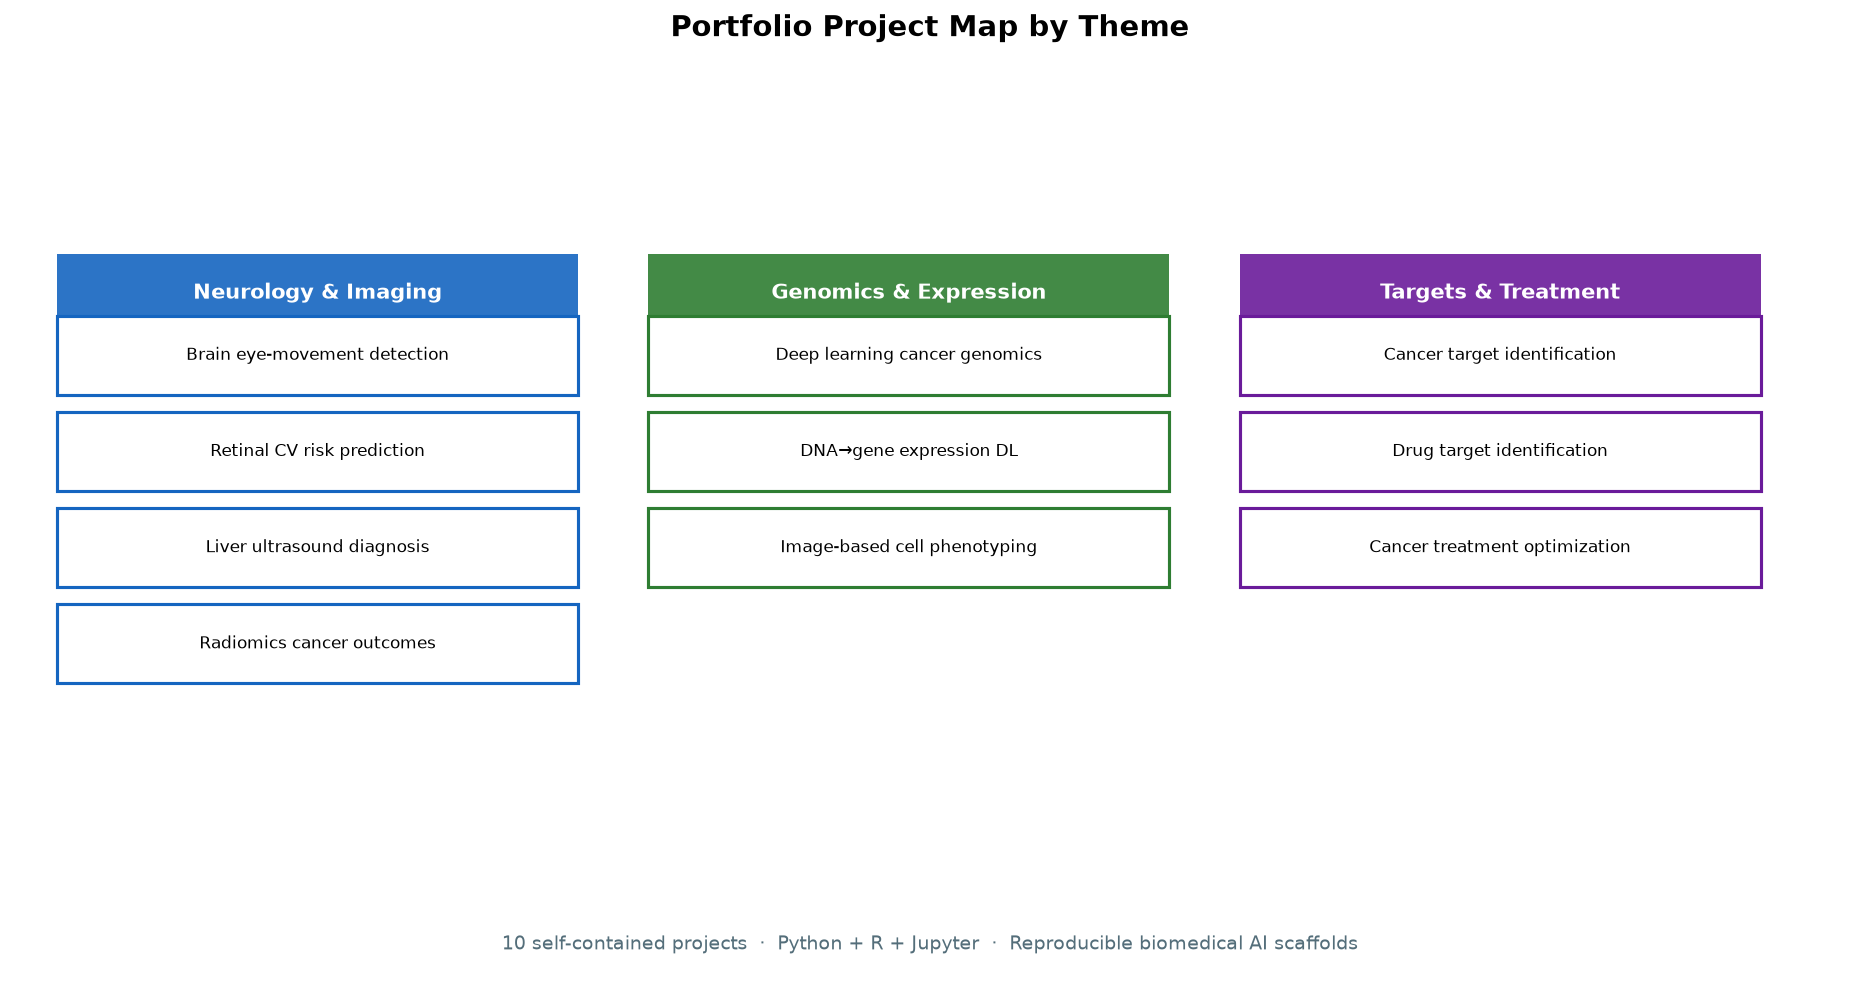
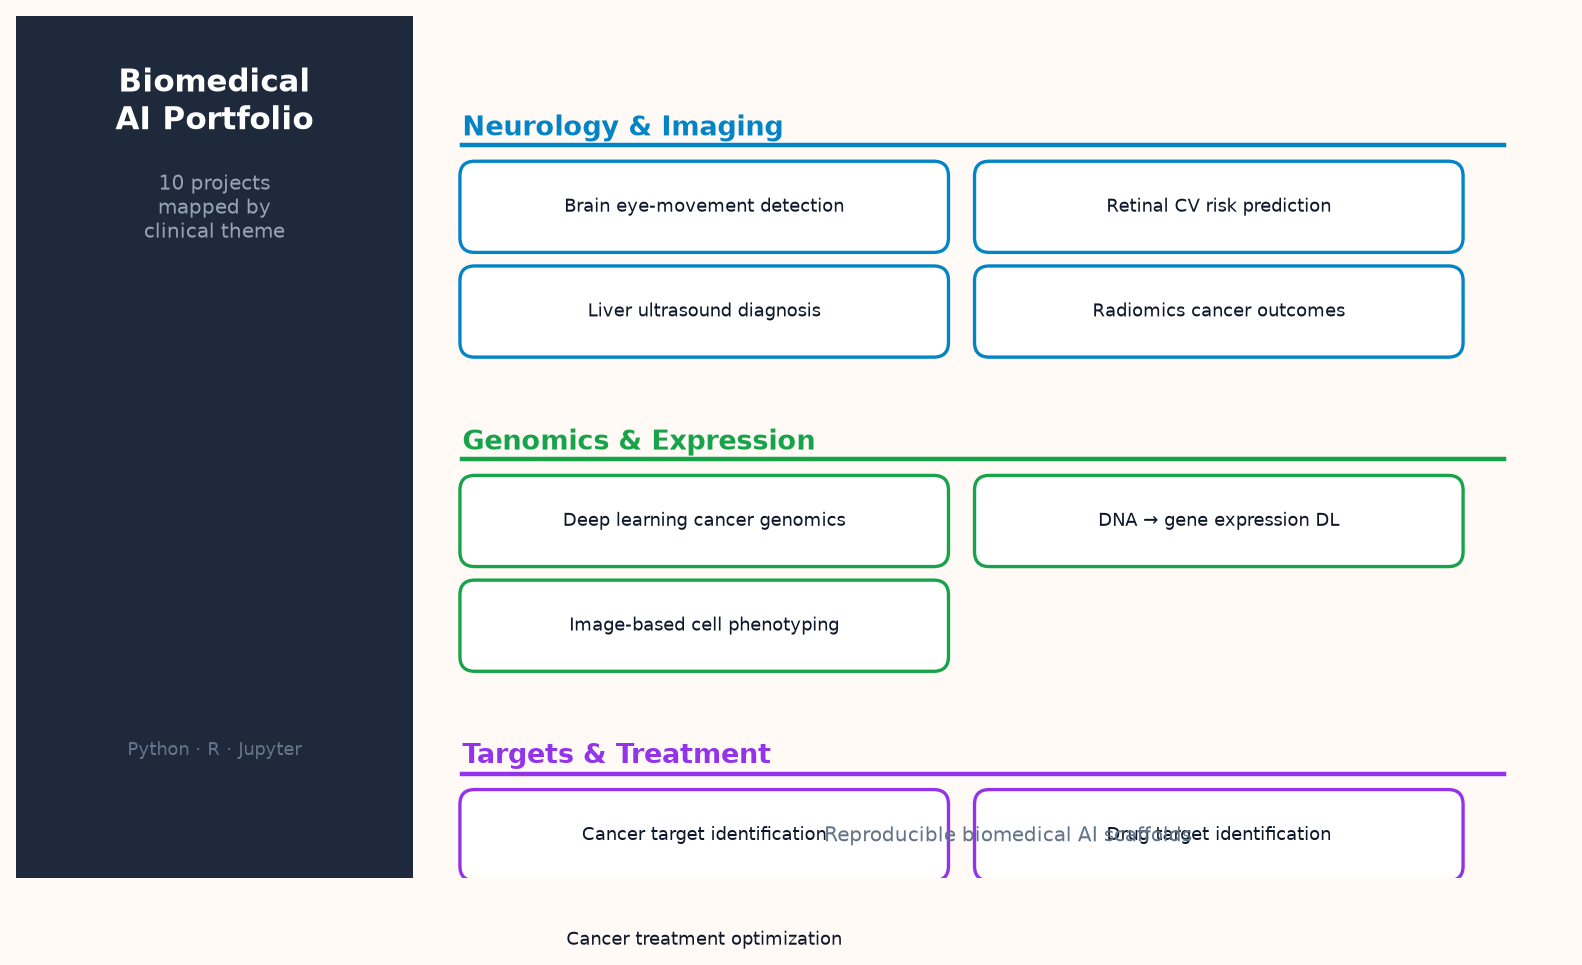
Update README.md

diff --git a/README.md b/README.md
@@ -41,7 +41,9 @@ Portfolio-level figures in `assets/` summarize themes across all ten biomedical 
 
 ![Portfolio cross-project visual overview](assets/portfolio_overview.png)
 
-### Project theme map
+### Project theme map (biomedical only)
+
+Clinical-theme map of the **10 biomedical folders** (neurology/imaging, genomics/expression, targets/treatment). This figure is unique to this repository — not shared with the epidemiology or climate portfolios:
 
 ![Portfolio project theme map](assets/project_theme_map.png)
 